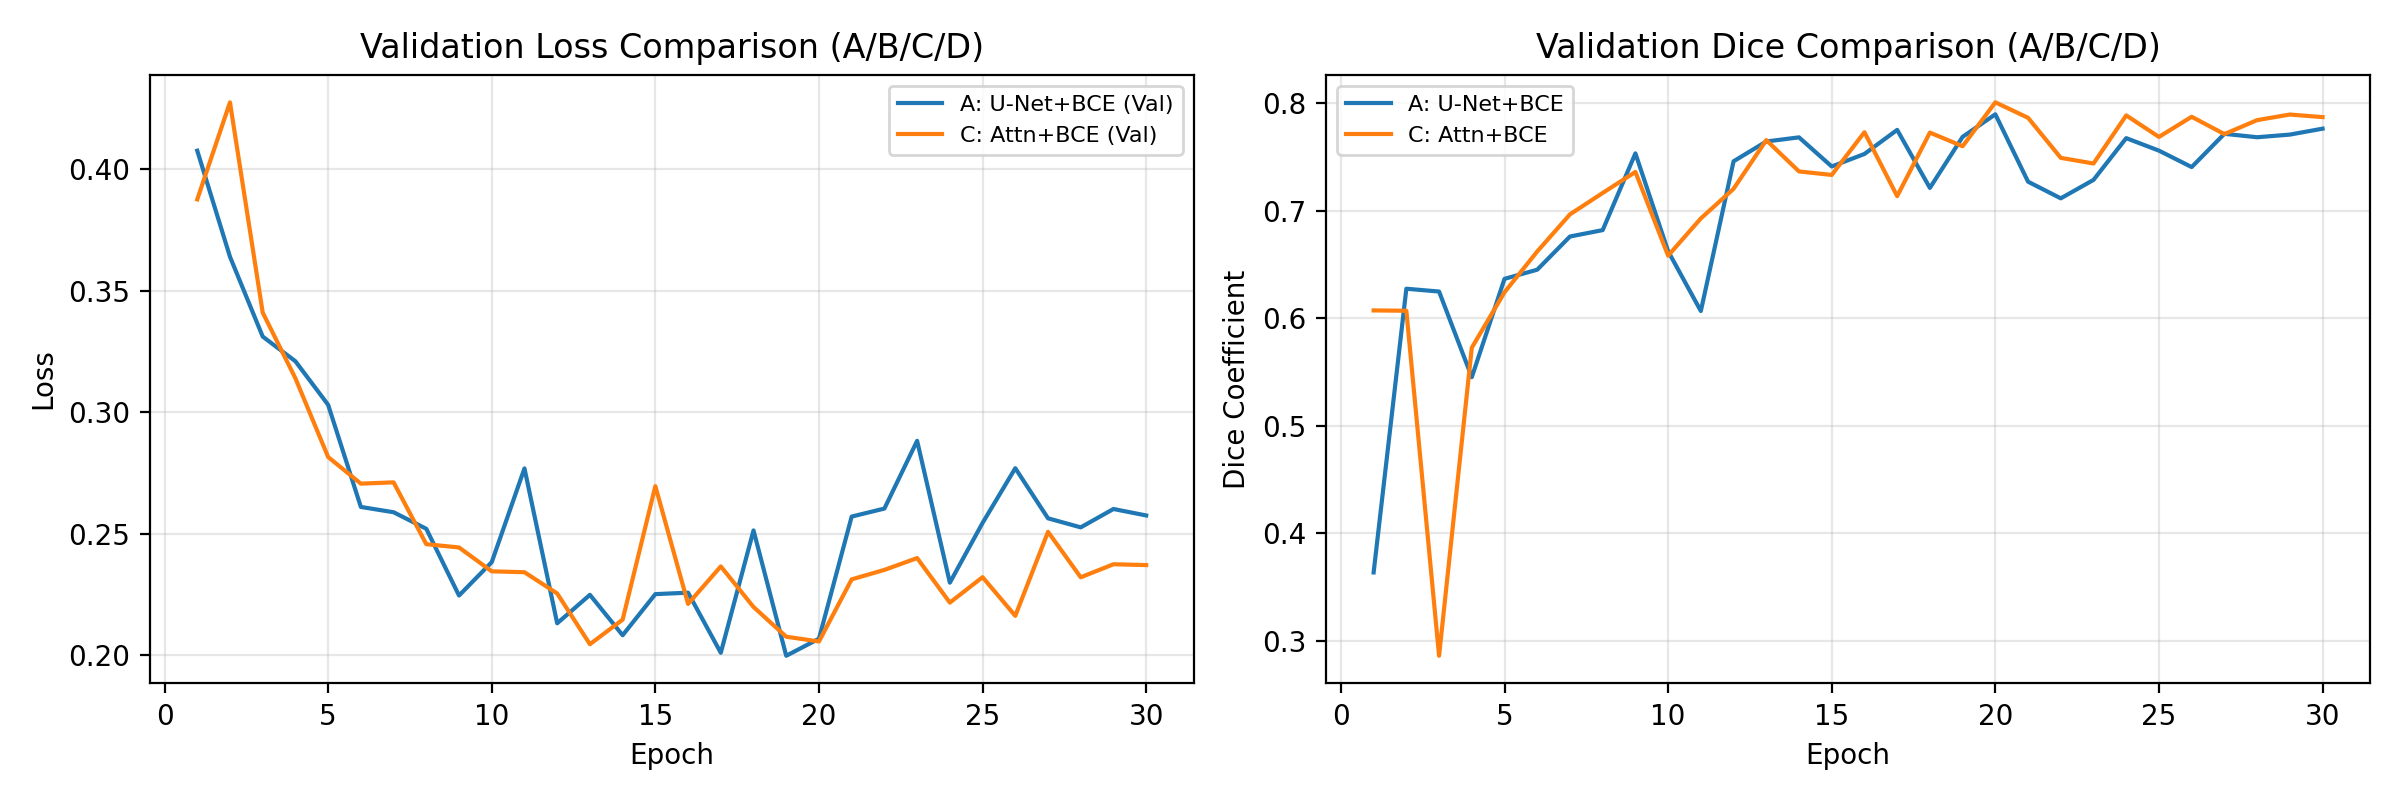
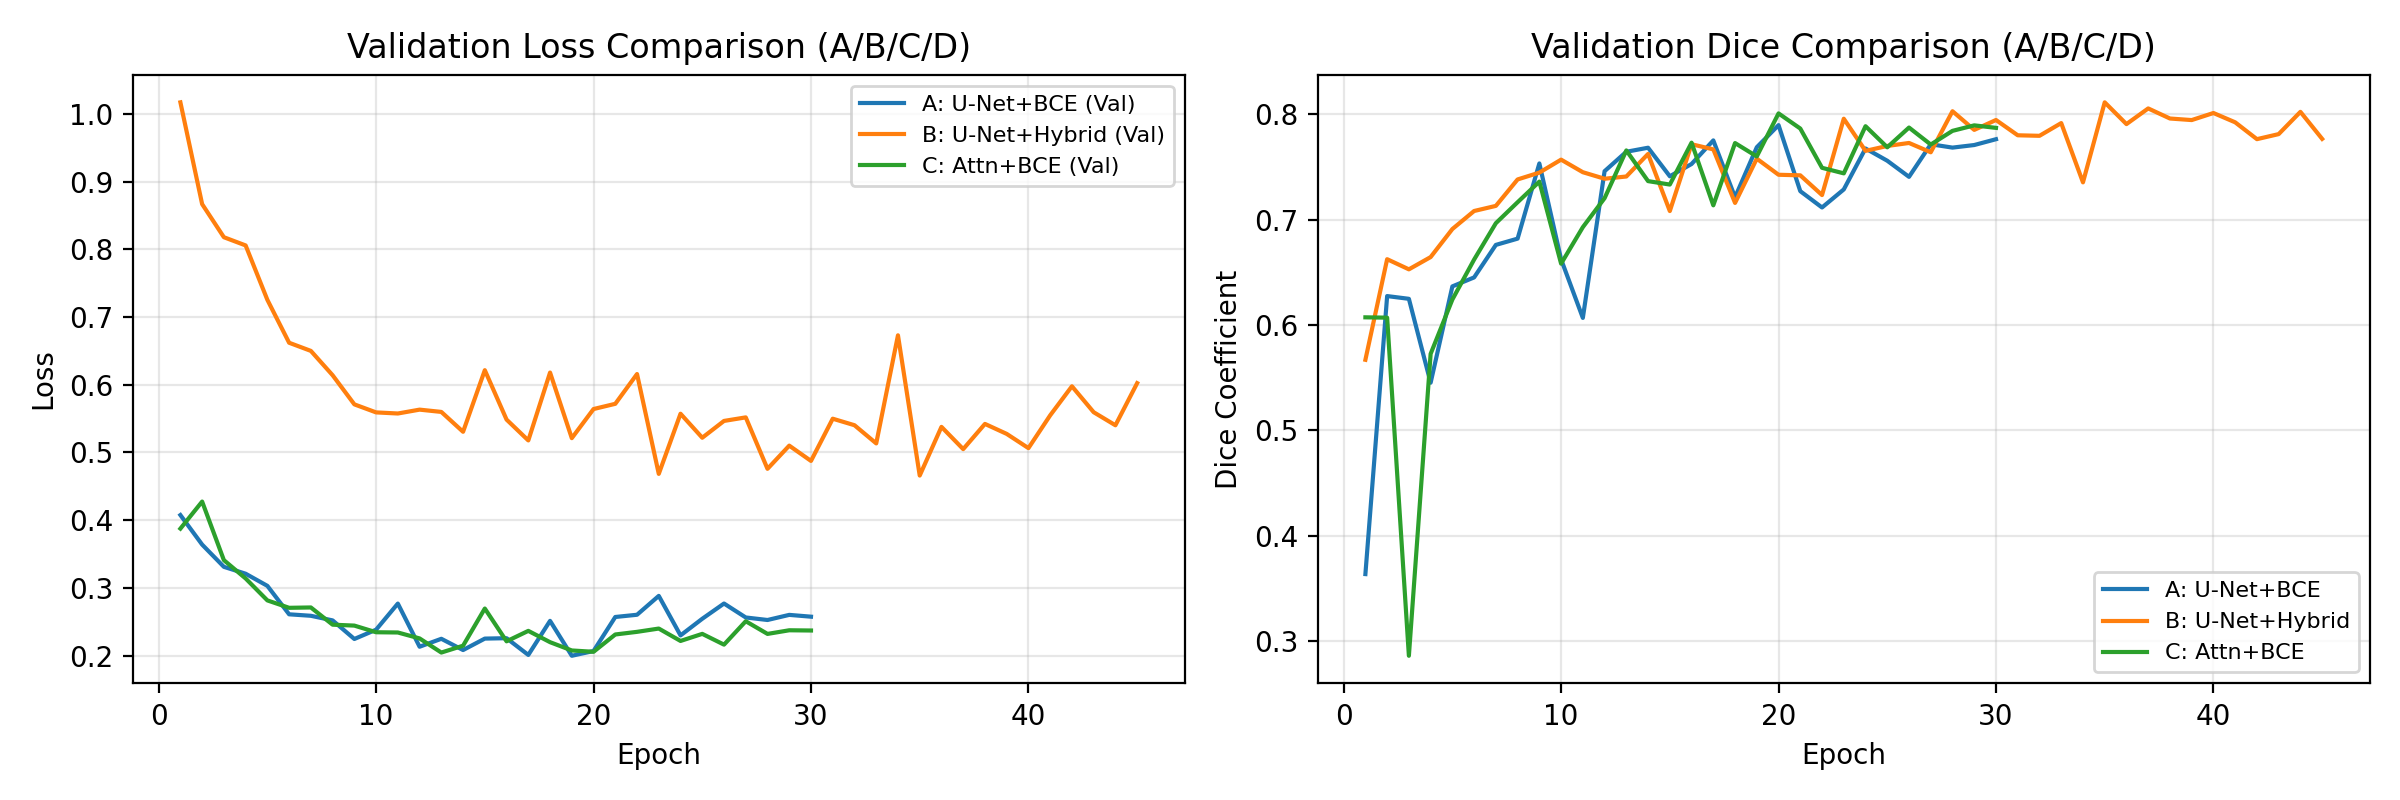
Add files via upload

diff --git a/experiments/results/ablation_summary.md b/experiments/results/ablation_summary.md
@@ -5,4 +5,4 @@
 | A | U-Net + BCE | 1e-4 | - | 0.7899 | 0.7887 | unet_baseline_bs8_lr0.0001 |
 | C | Attention U-Net + BCE | 1e-4 | - | 0.8010 | 0.8085 | attention_unet_bce_bs8_lr0.0001 |
 | B | U-Net + BCE + Dice | 1e-4 | 1:1 | 0.7666 | 0.7851 | unet_hybrid_bs16_lr0.0001_bce1_dice1 |
-| B | U-Net + BCE + Dice | 1e-4 | 1:1 | - | - | unet_hybrid_bs8_lr0.0001_bce1_dice1 |
+| B | U-Net + BCE + Dice | 1e-4 | 1:1 | 0.8115 | 0.8186 | unet_hybrid_bs8_lr0.0001_bce1_dice1 |